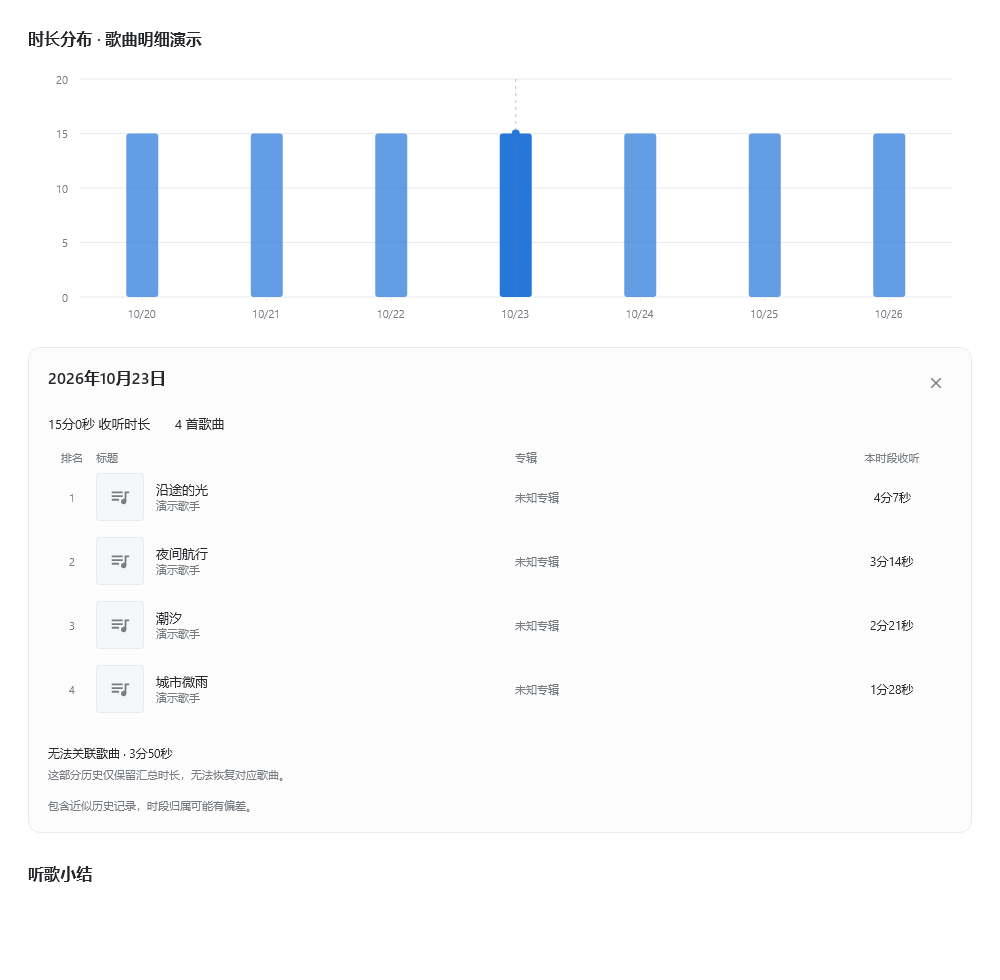
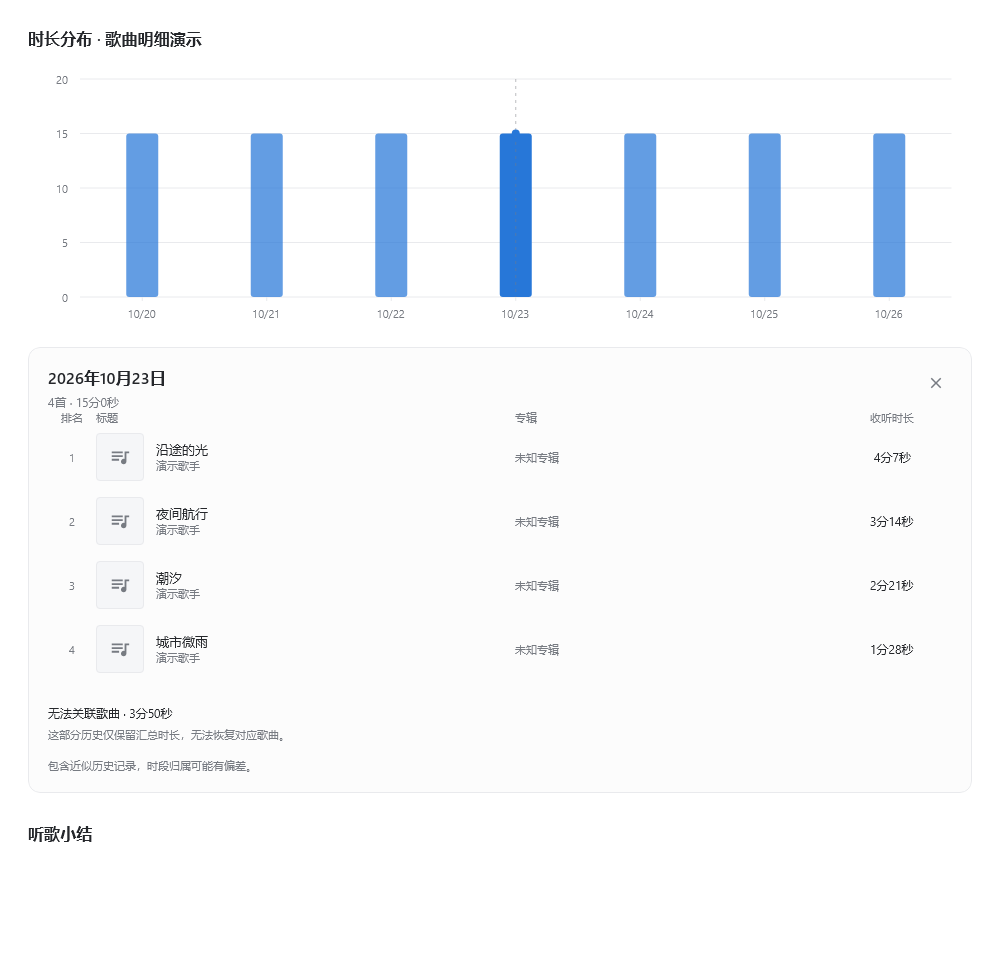
Update listening details subtitle

diff --git a/plugin/src/main/kotlin/com/jethuit/spw/listenstats/ui/ListeningDetailsPanel.kt b/plugin/src/main/kotlin/com/jethuit/spw/listenstats/ui/ListeningDetailsPanel.kt
@@ -64,6 +64,13 @@ fun ListeningDetailsPanel(bucket: ChartBucket, details: ListeningDetails?, visib
             Row(Modifier.fillMaxWidth(), verticalAlignment = Alignment.Top) {
                 Column(Modifier.weight(1f)) {
                     Text(label, style = AppType.sectionTitle.copy(color = colors.text))
+                    if (current != null) {
+                        Text(
+                            "${current.rows.size}首 · ${formatDurationSeconds(shown.millis)}",
+                            modifier = Modifier.padding(top = 6.dp),
+                            style = AppType.bodySmall.copy(color = colors.muted)
+                        )
+                    }
                 }
                 BasicButton(onClick = onClose,
                     modifier = Modifier.size(32.dp).semantics { contentDescription = "收起歌曲明细" },
@@ -72,12 +79,6 @@ fun ListeningDetailsPanel(bucket: ChartBucket, details: ListeningDetails?, visib
                     contentPadding = PaddingValues(0.dp)) {
                     AppIcon(IconPaths.Close, colors.muted, iconSize = 18.dp)
                 }
-            }
-            Row(Modifier.fillMaxWidth().padding(top = 16.dp, bottom = 18.dp),
-                horizontalArrangement = Arrangement.spacedBy(24.dp)) {
-                Text("${formatDurationSeconds(shown.millis)} 收听时长", style = AppType.table.copy(color = colors.text))
-                if (current != null) Text("${current.rows.size} 首歌曲",
-                    style = AppType.table.copy(color = colors.text))
             }
             when {
                 current == null -> Text("正在读取明细…", style = AppType.bodySmall.copy(color = colors.muted))
@@ -93,7 +94,7 @@ fun ListeningDetailsPanel(bucket: ChartBucket, details: ListeningDetails?, visib
                                 style = AppType.tableHead.copy(color = colors.muted))
                             if (widths.album > 0.dp) Text("专辑", Modifier.width(widths.album).padding(end = 16.dp),
                                 style = AppType.tableHead.copy(color = colors.muted))
-                            Text("本时段收听", Modifier.width(widths.count),
+                            Text("收听时长", Modifier.width(widths.count),
                                 textAlign = androidx.compose.ui.text.style.TextAlign.Center,
                                 style = AppType.tableHead.copy(color = colors.muted))
                         }

diff --git a/tools/build_plugin.py b/tools/build_plugin.py
@@ -27,7 +27,7 @@ TOOLS = BUILD / 'tools'
 PLUGIN_SRC = ROOT / 'plugin' / 'src' / 'main' / 'kotlin'
 RESOURCES = ROOT / 'plugin' / 'src' / 'main' / 'resources'
 PLUGIN_ID = 'com.jethuit.spw.listenstats'
-PLUGIN_VERSION = '0.3.1-dev.2'
+PLUGIN_VERSION = '0.3.1-dev.3'
 PLUGIN_NAME = '听歌统计'
 PACKAGE_FILENAME = f'SPW-Stats-v{PLUGIN_VERSION}.spmod'
 PLUGIN_CLASS = 'com.jethuit.spw.listenstats.MainPlugin'

diff --git a/plugin/README.md b/plugin/README.md
@@ -1,6 +1,6 @@
 # 听歌统计模组源码
 
-Kotlin / Compose / Salt UI 实现，当前源码版本为 v0.3.1-dev.2，基于 SPW 1.19.2 构建，采用运行时结构发现接入宿主。安装与功能介绍见[项目首页](../README.md)，产品规则见[需求](../docs/REQUIREMENTS.md)，依赖与许可证见[第三方组件](../docs/THIRD-PARTY.md)。
+Kotlin / Compose / Salt UI 实现，当前源码版本为 v0.3.1-dev.3，基于 SPW 1.19.2 构建，采用运行时结构发现接入宿主。安装与功能介绍见[项目首页](../README.md)，产品规则见[需求](../docs/REQUIREMENTS.md)，依赖与许可证见[第三方组件](../docs/THIRD-PARTY.md)。
 
 ## 目录
 
@@ -20,7 +20,7 @@ py -3.12 tools/prepare_toolchain.py --spw-dir "E:\SteamLibrary\steamapps\common\
 py -3.12 tools/build_plugin.py --spw-dir "E:\SteamLibrary\steamapps\common\Salt Player for Windows"
 ```
 
-构建使用 JDK 25、缓存的 Kotlin 编译器、SaltUI 及对应宿主 jar。每次构建比较安装目录与缓存宿主文件的内容，更新后自动刷新缓存，避免相同文件大小的宿主更新被漏过。工具链缓存位于 `build/tools/`，不提交 Git。版本号以 `tools/build_plugin.py` 的 `PLUGIN_VERSION` 为准；当前开发包为 `0.3.1-dev.2`，正式版 `0.3.0` 保持不变；安装包输出到 `build/libs/SPW-Stats-v<版本>.spmod`，解包目录为 `build/install/spw-listen-stats/`。
+构建使用 JDK 25、缓存的 Kotlin 编译器、SaltUI 及对应宿主 jar。每次构建比较安装目录与缓存宿主文件的内容，更新后自动刷新缓存，避免相同文件大小的宿主更新被漏过。工具链缓存位于 `build/tools/`，不提交 Git。版本号以 `tools/build_plugin.py` 的 `PLUGIN_VERSION` 为准；当前开发包为 `0.3.1-dev.3`，正式版 `0.3.0` 保持不变；安装包输出到 `build/libs/SPW-Stats-v<版本>.spmod`，解包目录为 `build/install/spw-listen-stats/`。
 
 宿主随附的 Kotlin 模块信息缺少部分 Compose 顶层函数索引。构建通过 `tools/RestoreComposeIndex.java` 从当前宿主类的 Kotlin 注解重建运行时包及明细所需的点击、焦点、惰性列表和滚动条编译索引，输出 `build/tools/spw-compose-compile-index.jar`；不需要旧宿主，也不修改安装文件。该文件只用于编译，不进入 `.spmod`，运行时仍使用宿主 Compose 类。
 
@@ -34,7 +34,7 @@ py -3.12 tools/build_plugin.py --spw-dir "E:\SteamLibrary\steamapps\common\Salt 
 
 深色热力图的四档蓝色已提高亮度，由低到高使用 `#3F78AE`、`#5799D6`、`#7AB7EC`、`#A5D4FF`，保留收听越多越亮的方向。每日与每周共用新配色；浅色主题、空白灰格和统计分档不变，真实材质下的观感需安装开发包核对。
 
-图表下方默认显示灰色小字“点击柱子或曲线查看歌曲明细，再次点击收起”。点击时长分布的柱子、折线或曲线对应时段，在图表下方展开歌曲明细，支持 300ms 展开／收起动画及全局动画开关；图表选中态只显示一根竖线和一个圆点，不绘制整段蓝色背景；再次点击当前时段收起，点其他时段直接更新，右上关闭按钮或图表／卡片内 Esc 收起；鼠标点击图表后获取键盘焦点，可直接按 Esc 收起或用左右键、回车选择时段。列表按本时段时长排序，默认最多显示六行，可配置为3～12行，超出时在卡片内滚动。后台读取同一统计快照中的合并事件，普通刷新保留当前明细，改变日期范围或粒度后收起。明细总时长、歌曲时长和无法关联时长显示到秒，显示已累计的完整秒数，不足一秒显示“不足1秒”；其他页面保持分钟显示。删除歌曲旁的“含近似记录”标注，保留卡片底部的近似时段说明；旧版汇总无法关联歌曲的时长单列说明，不推算时段播放次数。周期对比、范围榜单、分享卡片目前仍只在审核预览中。
+图表下方默认显示灰色小字“点击柱子或曲线查看歌曲明细，再次点击收起”。点击时长分布的柱子、折线或曲线对应时段，在图表下方展开歌曲明细，支持 300ms 展开／收起动画及全局动画开关；图表选中态只显示一根竖线和一个圆点，不绘制整段蓝色背景；再次点击当前时段收起，点其他时段直接更新，右上关闭按钮或图表／卡片内 Esc 收起；鼠标点击图表后获取键盘焦点，可直接按 Esc 收起或用左右键、回车选择时段。列表按本时段时长排序，默认最多显示六行，可配置为3～12行，超出时在卡片内滚动。明细标题下方显示“x首 · x小时x分x秒”副标题，表头使用“收听时长”。后台读取同一统计快照中的合并事件，普通刷新保留当前明细，改变日期范围或粒度后收起。明细总时长、歌曲时长和无法关联时长显示到秒，显示已累计的完整秒数，不足一秒显示“不足1秒”；其他页面保持分钟显示。删除歌曲旁的“含近似记录”标注，保留卡片底部的近似时段说明；旧版汇总无法关联歌曲的时长单列说明，不推算时段播放次数。周期对比、范围榜单、分享卡片目前仍只在审核预览中。
 
 当前开发版取消小时折线／平滑曲线首尾补出的水平延长线，填充在真实端点处向下闭合，保留半个区间留白及原有线条端头样式。顶部导航首项去除左内边距，与累计卡片和热力图等正文左边缘对齐，蓝色下划线仍跟随图标与文字内容。
 

diff --git a/docs/REQUIREMENTS.md b/docs/REQUIREMENTS.md
@@ -97,8 +97,8 @@
 ### 歌曲收听明细
 
 - 2026-10-23 确认先实现歌曲明细，使用图表下方的局部展开卡片。点击柱子、折线或曲线对应时段后展开，300ms 高度展开＋淡入，推开下方听歌小结；关闭按钮或卡片／图表内按 Esc 收起；鼠标点击图表后获得键盘焦点，可直接按 Esc 收起或用左右键、回车选择时段。关闭“页面动画”后直接展开／收起。
-- 2026-10-24：歌曲明细表头与排行表统一为“排名、标题、专辑、本时段收听”，排名居中，标题与专辑左对齐，收听时长右对齐。
-- 卡片显示完整日期或时段、该时段总收听时长、可关联歌曲数量，以及封面、歌曲名、歌手和本时段收听时长；按收听时长降序。歌曲过多时在卡片内滚动，默认最多六行可见，可在配置中设置为3～12行，超出部分在卡片内滚动。
+- 2026-10-24：歌曲明细表头与排行表统一为“排名、标题、专辑、收听时长”，排名居中，标题与专辑左对齐，收听时长右对齐。
+- 卡片显示完整日期或时段，日期下方紧邻显示“x首 · x小时x分x秒”副标题，以及封面、歌曲名、歌手和收听时长；按收听时长降序。歌曲过多时在卡片内滚动，默认最多六行可见，可在配置中设置为3～12行，超出部分在卡片内滚动。
 - 选中时段在图表中保持标记；再次点击当前柱子或曲线时段收起明细，读取中重复点击同一时段也取消请求。图表可用左右键选择、回车或空格打开／收起。点击其他时段直接更新卡片；普通数据刷新保留所选时段和展开状态，不重播展开动画。更换日期范围或聚合粒度后收起明细。
 - 使用已合并事件的实际片段，跨小时、跨日只累计落入所选时段的部分，按周只覆盖该组实际起止日。同一歌曲按身份合并展示；不从累计次数推断时段次数，也不增加本时段播放次数。
 - 删除歌曲旁的“含近似记录”标注；存在近似片段时保留卡片底部的时段归属说明。旧汇总与已关联歌曲的时长差单列“无法关联歌曲”，不补造歌曲清单。仅明细内的总时长、每首歌曲时长和无法关联时长显示到秒，例如“3分27秒”“1小时2分8秒”；按最终合计值取完整秒数，正值不足一秒显示“不足1秒”，零时长显示“0秒”。其他位置继续使用原有分钟舍入口径；显示到秒不改变近似历史记录的精度。
